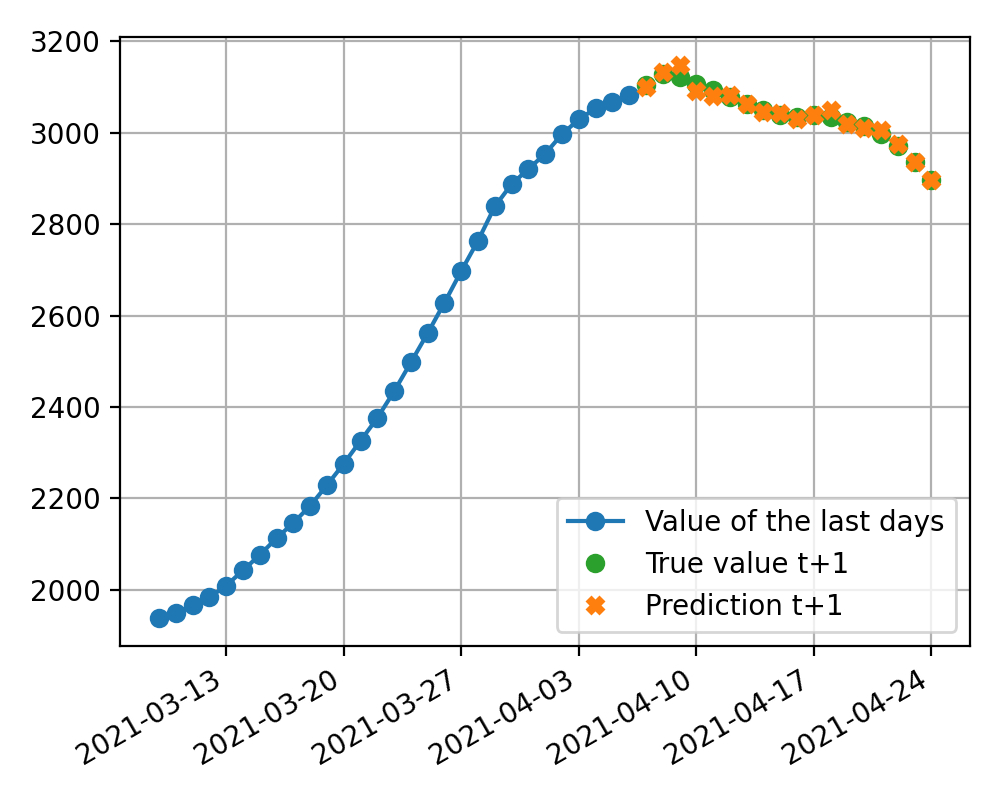
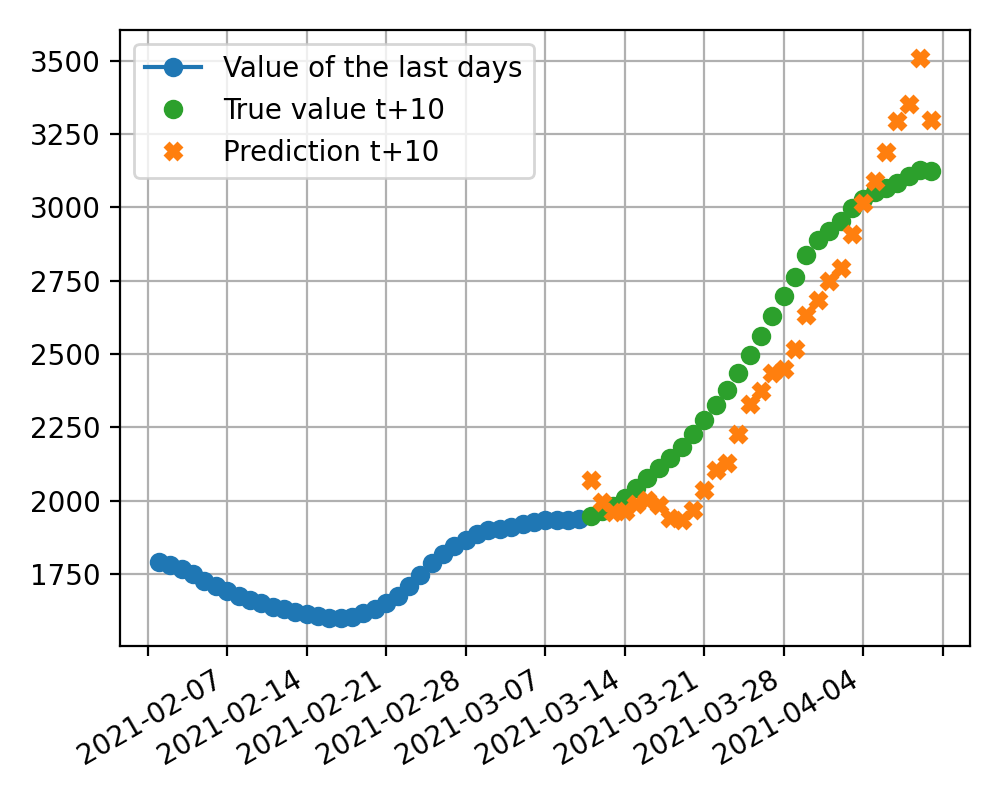
Update code for plot predictions

diff --git a/src/plots.py b/src/plots.py
@@ -197,19 +197,25 @@ def plot_prediction_t_1():  # plot the predictions for t+1
 
 
 # ---------------- plot for the real predictions
-def real_predictions_new(file_pred):
-    file_true = "../res/True_y_values_last_walk_BE.csv"
+def real_predictions_new(file_pred: str, save_path: str):
+    file_true = "../res/True_hosp_values_BE.csv"
     prediction_df = pd.read_csv(file_pred)
     true_df = pd.read_csv(file_true)
 
-    prediction_last_walk = prediction_df[prediction_df["Walk"] == "walk 6"]
-    prediction_last_walk = prediction_last_walk[["DATE", "NEW_HOSP(t+1)"]].set_index("DATE")
+    prediction_last_walk = prediction_df[["DATE", "NEW_HOSP(t+1)"]]
+    prediction_last_walk = prediction_last_walk[prediction_last_walk["DATE"].between("2021-03-01", "2021-03-31", inclusive=True)]
 
-    samples = true_df[:-len(prediction_last_walk)]
-    samples = samples[["DATE", "NEW_HOSP(t+1)"]].set_index("DATE")
+    true_forecast = true_df[true_df["DATE"].between("2021-03-02", "2021-04-01", inclusive=True)]
+    true_forecast = true_forecast[["DATE", "NEW_HOSP"]]
 
-    true_forecast = true_df[-len(prediction_last_walk):]
-    true_forecast = true_forecast[["DATE", "NEW_HOSP(t+1)"]].set_index("DATE")
+    prediction_last_walk["DATE"] = true_forecast["DATE"].values
+    prediction_last_walk = prediction_last_walk.set_index("DATE")
+    true_forecast = true_forecast.set_index("DATE")
+
+    samples = true_df[true_df["DATE"].between("2021-02-01", "2021-03-01", inclusive=True)]
+    samples = samples[["DATE", "NEW_HOSP"]].set_index("DATE")
+
+    print(true_forecast)
 
     # Plot
     fig = plt.figure(figsize=(5, 4))
@@ -220,50 +226,61 @@ def real_predictions_new(file_pred):
     # set locator
     ax.xaxis.set_major_locator(mdates.DayLocator(interval=7))
     # set formatter
-    #ax.xaxis.set_major_formatter(mdates.DateFormatter('%d-%m-%Y'))
+    # ax.xaxis.set_major_formatter(mdates.DateFormatter('%d-%m-%Y'))
     # set font and rotation for date tick labels
     plt.gcf().autofmt_xdate()
     plt_finish()
-    plt.savefig(f'../plot/predictions/prediction_assembler_chap6', dpi=200)
+    plt.savefig(save_path, dpi=200)
 
 
-def real_predictions_tot(file_pred):
-    file_true = "../res/True_tot_hosp_values_last_walk_BE.csv"
+def real_predictions_tot(file_pred: str, save_path: str):
+    file_true = "../res/True_hosp_values_BE.csv"
     prediction_df = pd.read_csv(file_pred)
     true_df = pd.read_csv(file_true)
 
-    prediction_last_walk = prediction_df[prediction_df["Walk"] == "walk 6"]
-    prediction_last_walk = prediction_last_walk[["DATE", "NEW_HOSP(t+1)"]].set_index("DATE")
+    basic_tot = true_df[true_df["DATE"].between("2021-03-01", "2021-03-31", inclusive=True)]
+    basic_tot = basic_tot[["DATE", "TOT_HOSP"]].set_index("DATE")
 
-    basic_tot = true_df[-len(prediction_last_walk)-1:]
-    basic_tot = basic_tot[["DATE", "TOT_HOSP(t+1)"]].set_index("DATE")
+    prediction_last_walk = prediction_df[["DATE", "NEW_HOSP(t+1)", "NEW_HOSP(t+2)", "NEW_HOSP(t+3)", "NEW_HOSP(t+4)", "NEW_HOSP(t+5)", "NEW_HOSP(t+6)", "NEW_HOSP(t+7)", "NEW_HOSP(t+8)", "NEW_HOSP(t+9)", "NEW_HOSP(t+10)"]]
+    prediction_last_walk = prediction_last_walk[
+        prediction_last_walk["DATE"].between("2021-03-01", "2021-03-31", inclusive=True)]
+
+    true_forecast = true_df[true_df["DATE"].between("2021-03-11", "2021-04-10", inclusive=True)]
+    true_forecast = true_forecast[["DATE", "TOT_HOSP"]]
+
+    prediction_last_walk["DATE"] = true_forecast["DATE"].values
+    prediction_last_walk = prediction_last_walk.set_index("DATE")
+    true_forecast = true_forecast.set_index("DATE")
+
     total_pred = []
-    for index, elem in enumerate(prediction_last_walk["NEW_HOSP(t+1)"]):
-        total_pred.append(elem + basic_tot["TOT_HOSP(t+1)"].values[index])
+    for index, elem in enumerate(prediction_last_walk["NEW_HOSP(t+10)"]):
+        final_sum = 0
+        for i in range(1, 10):
+            name = f"NEW_HOSP(t+{i})"
+            final_sum += prediction_last_walk[name].values[index]
+        final_sum += elem + basic_tot["TOT_HOSP"].values[index]
+        total_pred.append(final_sum)
 
-    prediction_last_walk["TOT_HOSP(t+1)"] = total_pred
-    prediction_last_walk = prediction_last_walk.drop(columns=["NEW_HOSP(t+1)"])
+    prediction_last_walk["TOT_HOSP(t+10)"] = total_pred
+    prediction_last_walk = prediction_last_walk.drop(columns=["NEW_HOSP(t+1)", "NEW_HOSP(t+2)", "NEW_HOSP(t+3)", "NEW_HOSP(t+4)", "NEW_HOSP(t+5)", "NEW_HOSP(t+6)", "NEW_HOSP(t+7)", "NEW_HOSP(t+8)", "NEW_HOSP(t+9)", "NEW_HOSP(t+10)"])
 
-    samples = true_df[:-len(prediction_last_walk)]
-    samples = samples[["DATE", "TOT_HOSP(t+1)"]].set_index("DATE")
-
-    true_forecast = true_df[-len(prediction_last_walk):]
-    true_forecast = true_forecast[["DATE", "TOT_HOSP(t+1)"]].set_index("DATE")
+    samples = true_df[true_df["DATE"].between("2021-02-01", "2021-03-10", inclusive=True)]
+    samples = samples[["DATE", "TOT_HOSP"]].set_index("DATE")
 
     # Plot
     fig = plt.figure(figsize=(5, 4))
     plt.plot(samples, linestyle='-', marker='o', color=color_train, label='Value of the last days')
-    plt.plot(true_forecast, linestyle='', marker='o', color=color_actual, label=f'True value t+1')
-    plt.plot(prediction_last_walk, linestyle='', marker='X', color=color_prediction, label=f'Prediction t+1')
+    plt.plot(true_forecast, linestyle='', marker='o', color=color_actual, label=f'True value t+10')
+    plt.plot(prediction_last_walk, linestyle='', marker='X', color=color_prediction, label=f'Prediction t+10')
     ax = fig.axes[0]
     # set locator
     ax.xaxis.set_major_locator(mdates.DayLocator(interval=7))
     # set formatter
-    #ax.xaxis.set_major_formatter(mdates.DateFormatter('%d-%m-%Y'))
+    # ax.xaxis.set_major_formatter(mdates.DateFormatter('%d-%m-%Y'))
     # set font and rotation for date tick labels
     plt.gcf().autofmt_xdate()
     plt_finish()
-    plt.savefig(f'../plot/predictions/prediction_assembler_tot', dpi=200)
+    plt.savefig(save_path, dpi=200)
 
 
 def plot_assembly_real_prediction(name_assembly_file: str, date: str):
@@ -659,4 +676,43 @@ if __name__ == '__main__':
     # plot_adjacent_queries()
     # plot_prediction_t_1()
     # plot_prediction()
-    plot_assembly_real_prediction('2021-06-02-11:26_get_assembly_NEW_HOSP', '2021-04-20')
+    # plot_assembly_real_prediction('2021-06-02-11:26_get_assembly_NEW_HOSP', '2021-04-20')
+
+    dict_models_france = {
+        "../res/2021-06-02-15:49_get_custom_linear_regression_NEW_HOSP_prediction_BE.csv": [
+            '../plot/predictions/prediction_linear_reg_chap6', '../plot/predictions/prediction_linear_reg_tot'],
+        "../res/2021-06-02-15:49_get_assembly_2_NEW_HOSP_prediction_BE.csv": [
+            '../plot/predictions/prediction_assembler_chap6', '../plot/predictions/prediction_assembler_tot'],
+        "../res/2021-06-02-15:49_get_baseline_NEW_HOSP_prediction_BE.csv": [
+            '../plot/predictions/prediction_baseline_chap6', '../plot/predictions/prediction_baseline_tot'],
+        "../res/2021-06-02-15:49_get_dense_model_NEW_HOSP_prediction_BE.csv": [
+            '../plot/predictions/prediction_dense_chap6', '../plot/predictions/prediction_dense_tot'],
+        "../res/2021-06-02-15:49_get_encoder_decoder_NEW_HOSP_prediction_BE.csv": [
+            '../plot/predictions/prediction_encoder-decoder_chap6',
+            '../plot/predictions/prediction_encoder-decoder_tot'],
+        "../res/2021-06-05-11:27_get_encoder_decoder_NEW_HOSP_prediction_BE.csv": [
+            '../plot/predictions/prediction_encoder-decoder_no_trends_chap6',
+            '../plot/predictions/prediction_encoder-decoder_no_trends_tot'],
+    }
+
+    dict_models_europe = {
+        "../res/2021-06-03-00:19_get_custom_linear_regression_NEW_HOSP_prediction_BE.csv": [
+            '../plot/predictions/prediction_linear_reg_chap6_europe', '../plot/predictions/prediction_linear_reg_tot_europe'],
+        "../res/2021-06-03-00:19_get_assembly_2_NEW_HOSP_prediction_BE.csv": [
+            '../plot/predictions/prediction_assembler_chap6_europe', '../plot/predictions/prediction_assembler_tot_europe'],
+        "../res/2021-06-03-00:19_get_baseline_NEW_HOSP_prediction_BE.csv": [
+            '../plot/predictions/prediction_baseline_chap6_europe', '../plot/predictions/prediction_baseline_tot_europe'],
+        "../res/2021-06-03-00:19_get_dense_model_NEW_HOSP_prediction_BE.csv": [
+            '../plot/predictions/prediction_dense_chap6_europe', '../plot/predictions/prediction_dense_tot_europe'],
+        "../res/2021-06-03-00:19_get_encoder_decoder_NEW_HOSP_prediction_BE.csv": [
+            '../plot/predictions/prediction_encoder-decoder_europe',
+            '../plot/predictions/prediction_encoder-decoder_tot_europe'],
+        # "../res/2021-06-03-00:19_get_encoder_decoder_NEW_HOSP_prediction_BE.csv": ['../plot/predictions/prediction_encoder-decoder_no_trends_chap6','../plot/predictions/prediction_encoder-decoder_no_trends_tot'],
+    }
+
+    for key, val in dict_models_france.items():
+        real_predictions_new(key, val[0])
+        real_predictions_tot(key, val[1])
+
+    #file_pred = "../res/2021-06-03-00:19_get_assembly_2_NEW_HOSP_prediction_BE.csv"
+    #real_predictions_tot(file_pred)
